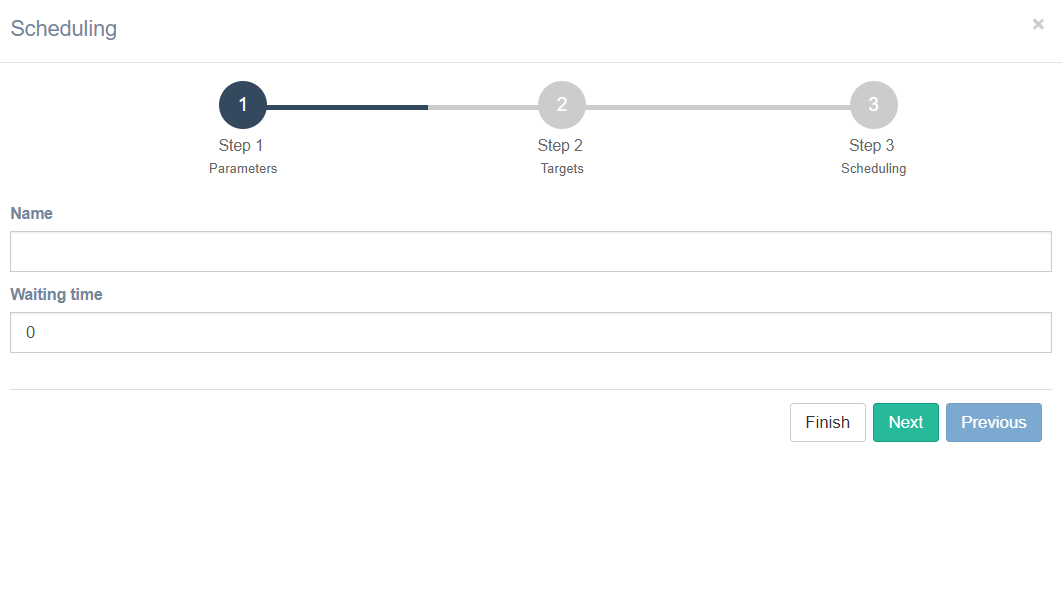
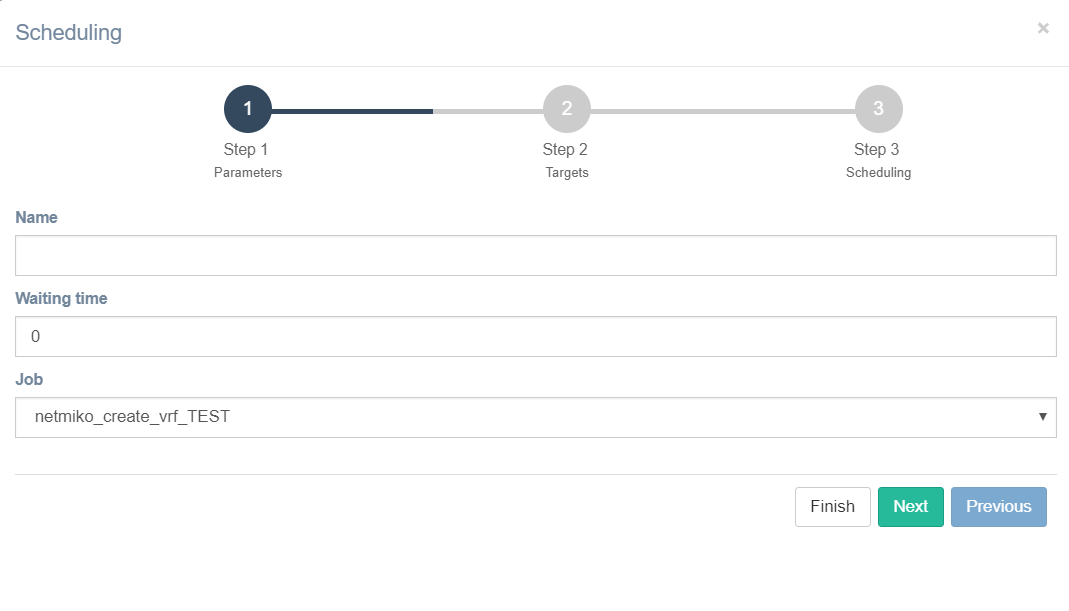
update doc services 7

diff --git a/docs/services/service_scheduling.rst b/docs/services/service_scheduling.rst
@@ -4,8 +4,9 @@ Service scheduling
 
 A step is scheduled by creating a ``Task``. It is a 3-steps process:
 
-1. Choosing a name and a waiting time
+1. Choosing a name, a waiting time and a job
 
+The job is the service (or workflow, as you can see in the ``Workflow`` section) that you want to execute.
 The waiting time is only considered when the task is used in a workflow (see the ``Workflow`` section of the doc for more information). It defines how much time to wait after the task is finished (after reloading a device for example).
 
 .. image:: /_static/services/service_scheduling/step1.png
@@ -34,22 +35,25 @@ You can schedule a service :
 From the Service Management page
 --------------------------------
 
-.. image:: /_static/tasks/scheduling/scheduling2.png
+Go to the :guilabel:`services/service_management` page and click on the ``Schedule`` button for the service you want to schedule.
+The ``Job`` drop-down list in the first step of the task creation will not appear: it is automatically set to the appropriate service.
+
+.. image:: /_static/services/service_scheduling/from_service_management.png
    :alt: test
    :align: center
 
 From the views
 --------------
 
-You can ``left-click`` on a device to select it, or use ``shift + left-click`` to draw a selection rectangle and select multiple devices at once. All selected devices are highlighted in red. A ``left-click`` on the background will automatically unselect all devices (see the :guilabel:`Views / Bindings` section of the doc).
+Select the target devices (see the :guilabel:`Views / Bindings` section of the doc), and select ``Add new task`` in the right-click menu. The devices you selected graphically will be automatically selected in the task creation process described above (step 2).
 
-.. image:: /_static/views/bindings/multiple_selection.png
+.. image:: /_static/services/service_scheduling/step1.png.png
    :alt: Multiple selection
    :align: center
 
 Refer to the :guilabel:`views/bindings` section of the docs for more information.
 
-Task overview
+Service tasks
 -------------
 
 In the :guilabel:`tasks/task_management` page, you can find a summary of all existing tasks.
